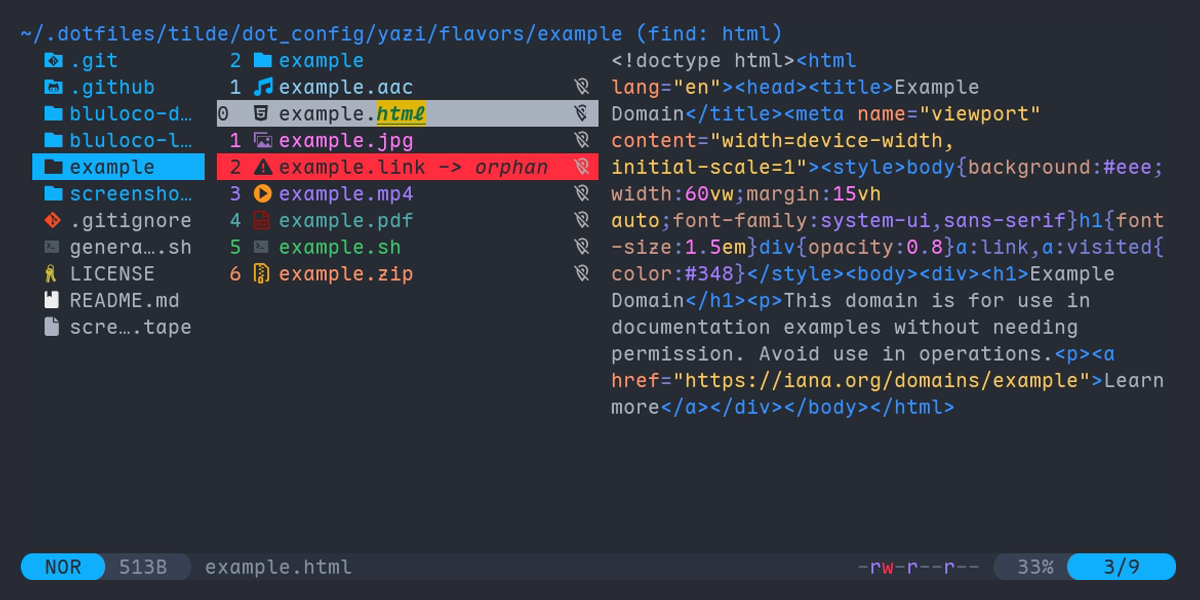
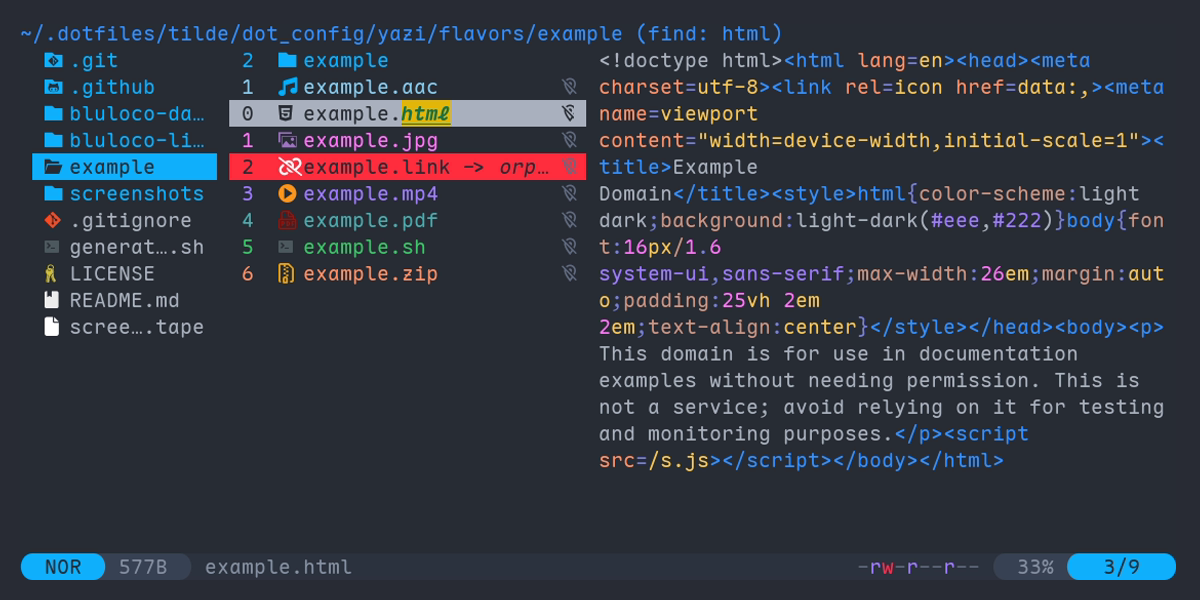
Chore(docs): Regenerate screenshots
Other changes:
- Fix the video download link
- Reformatted the README.md files

diff --git a/bluloco-light.yazi/README.md b/bluloco-light.yazi/README.md
@@ -22,9 +22,9 @@ ya pkg add hankertrix/bluloco-yazi:bluloco-light
 
 ## Usage
 
-Add the section below to your `theme.toml` file,
-located at `~/.config/yazi/theme.toml` for Linux and macOS,
-and `%AppData%\yazi\config\theme.toml` for Windows.
+Add the section below to your `theme.toml` file, located at
+`~/.config/yazi/theme.toml` for Linux and macOS, and
+`%AppData%\yazi\config\theme.toml` for Windows.
 
 Note that this is a **light** theme.
 
@@ -38,9 +38,9 @@ light = "bluloco-light"
 ## Licence
 
 Both the flavour and the included `tmtheme` is licensed under the
-[GNU Lesser General Public License v3 (LGPL v3)](LICENSE).
-Check the [`LICENSE`](LICENSE) and [`LICENSE-tmtheme`](LICENSE-tmtheme)
-files for more information.
+[GNU Lesser General Public License v3 (LGPL v3)](LICENSE). Check the
+[`LICENSE`](LICENSE) and [`LICENSE-tmtheme`](LICENSE-tmtheme) files for more
+information.
 
 <!-- Links -->
 
@@ -48,5 +48,7 @@ files for more information.
 
 <!-- Screenshots -->
 
-[spotter]: https://github.com/user-attachments/assets/a030397a-b8b0-4cea-8ce0-a2205e2326d4
-[help]: https://github.com/user-attachments/assets/a5b168b6-3860-423b-9a3e-315007a21017
+[spotter]:
+  https://github.com/user-attachments/assets/f522dd03-2dd1-44c0-9267-a9cf296df6b3
+[help]:
+  https://github.com/user-attachments/assets/1b98276b-f5e6-494c-b1b3-6cf040262af6

diff --git a/bluloco-dark.yazi/README.md b/bluloco-dark.yazi/README.md
@@ -22,9 +22,9 @@ ya pkg add hankertrix/bluloco-yazi:bluloco-dark
 
 ## Usage
 
-Add the section below to your `theme.toml` file,
-located at `~/.config/yazi/theme.toml` for Linux and macOS,
-and `%AppData%\yazi\config\theme.toml` for Windows.
+Add the section below to your `theme.toml` file, located at
+`~/.config/yazi/theme.toml` for Linux and macOS, and
+`%AppData%\yazi\config\theme.toml` for Windows.
 
 Note that this is a **dark** theme.
 
@@ -38,9 +38,9 @@ dark = "bluloco-dark"
 ## Licence
 
 Both the flavour and the included `tmtheme` is licensed under the
-[GNU Lesser General Public License v3 (LGPL v3)](LICENSE).
-Check the [`LICENSE`](LICENSE) and [`LICENSE-tmtheme`](LICENSE-tmtheme)
-files for more information.
+[GNU Lesser General Public License v3 (LGPL v3)](LICENSE). Check the
+[`LICENSE`](LICENSE) and [`LICENSE-tmtheme`](LICENSE-tmtheme) files for more
+information.
 
 <!-- Links -->
 
@@ -48,5 +48,7 @@ files for more information.
 
 <!-- Screenshots -->
 
-[spotter]: https://github.com/user-attachments/assets/f9681585-0569-4e43-a4ac-8d1f04cb89f3
-[help]: https://github.com/user-attachments/assets/6ff32eef-e7d2-4df8-bcf9-b0319af66fdb
+[spotter]:
+  https://github.com/user-attachments/assets/a1614f0a-60b2-4ba5-8ed9-e8d0fd39979d
+[help]:
+  https://github.com/user-attachments/assets/54225d23-a9bd-4b02-98d2-bb41451e21db
